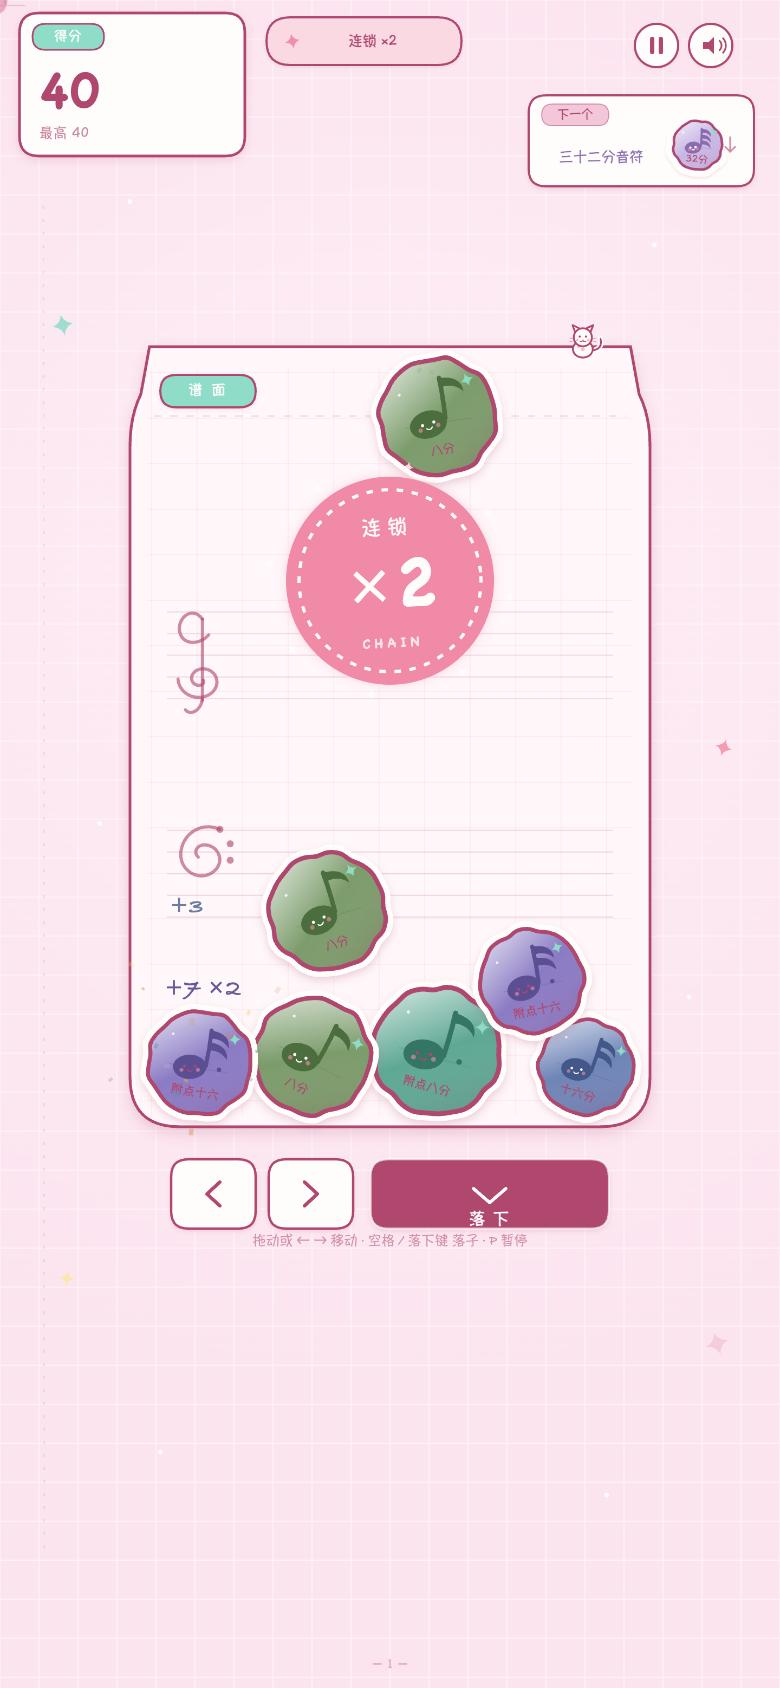
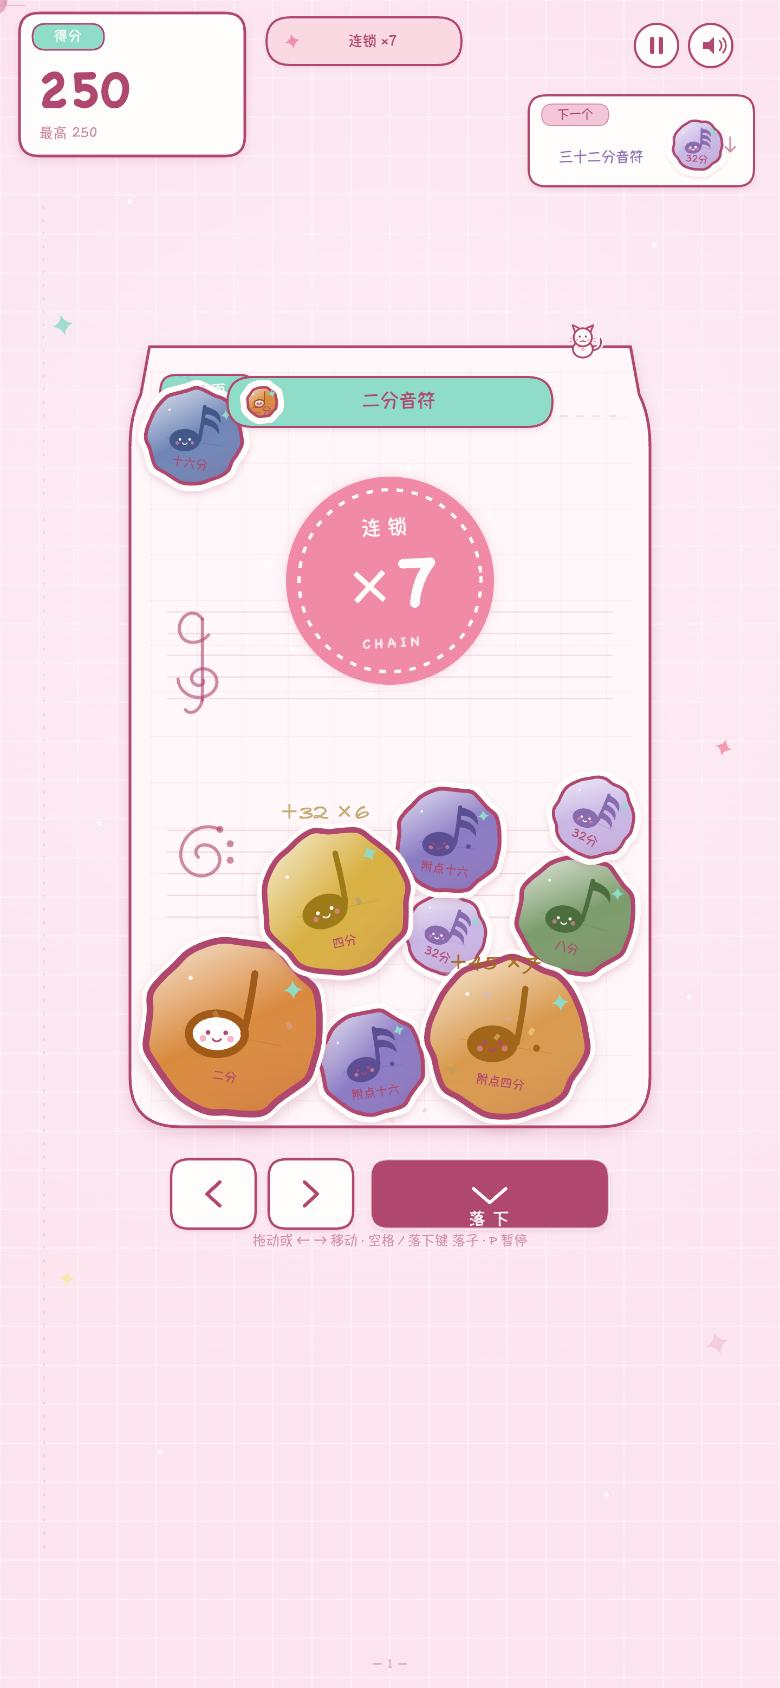
Publish 音符对对碰

diff --git a/staff-drop/index.html b/staff-drop/index.html
@@ -81,6 +81,9 @@
   ];
   var DROP_W = [0.25, 0.25, 0.25, 0.25];
   var MERGE_PTS = [0, 3, 6, 10, 15, 21, 28, 36, 45, 55];
+  // real-duration doubling: 32→16→8→4→2→whole; dotted 16→dotted 8→dotted 4→dotted 2.
+  // A dotted 2 doubled would be a dotted whole, which is outside this set, so two d2 stay put.
+  var MERGE_TO = [1, 3, 4, 5, 6, 7, 8, 9, -1, -1];
   var HANA_PTS = 66;
   var BEST_KEY = 'staffMerge.best.suika';
   function fullRankName(i) { var n = RANKS[i].durName; return n.slice(-2) === '音符' ? n : n + '音符'; }
@@ -528,7 +531,7 @@
           var rr2 = a.r + b.r;
           if (d2 >= rr2 * rr2 || d2 < 0.0001) continue;
           var d = Math.sqrt(d2);
-          if (it === 0 && a.rank === b.rank && a.age > 0.1 && b.age > 0.1 && d < rr2 + 0.6) {
+          if (it === 0 && a.rank === b.rank && a.age > 0.1 && b.age > 0.1 && d < rr2 + 0.6 && (a.rank === RANKS.length - 1 || MERGE_TO[a.rank] >= 0)) {
             a.dead = true; b.dead = true; mergeList.push([a, b]); continue;
           }
           var nx = dx / d, ny = dy / d, ov = rr2 - d;
@@ -566,6 +569,8 @@
   }
 
   function doMerge(a, b, pending) {
+    var target = MERGE_TO[a.rank];
+    if (a.rank < RANKS.length - 1 && target < 0) return;
     var mx = (a.x + b.x) / 2, my = (a.y + b.y) / 2;
     merges += 1;
     combo = (timeAnim - lastMerge < 1.15) ? combo + 1 : 1;
@@ -583,7 +588,7 @@
       floaters.push({ x: mx, y: my - 20, life: 1.6, text: '华彩 +' + hp, color: ACCENT, size: 26 });
       return;
     }
-    var nr = a.rank + 1;
+    var nr = target;
     var nrk = RANKS[nr];
     var nb = {
       x: mx, y: my, vx: (a.vx + b.vx) * 0.35, vy: (a.vy + b.vy) * 0.35 - 30,
@@ -1465,7 +1470,7 @@
     // rules
     var rules = [
       '音符从上方落下，左右移动，松手落下',
-      '两个相同音符相撞，合成更高时值',
+      '两个相同音符相撞，合成两倍时值',
       '全音符相撞放华彩，谱面堆满则曲终'
     ];
     var ry = ty + 400;
@@ -2761,7 +2766,7 @@
     g.strokeStyle = '#FFFDFB'; g.lineWidth = 3; g.stroke();
     text(g, '♪', 0, 1, 24, '#FFFDFB', { weight: '700' });
     g.restore();
-    text(g, '相同音符相撞，时值变长', W / 2, 330, 20, INK2, { weight: '500' });
+    text(g, '相同音符相撞，时值翻倍', W / 2, 330, 20, INK2, { weight: '500' });
     // demo card
     stickerCard(g, 110, 382, 500, 196, 22, '#FBF6FF');
     rr(g, 126, 398, 468, 164, 16);
@@ -2783,7 +2788,7 @@
     // rules
     var rules = [
       '音符从上方落下，左右移动，松手落下',
-      '两个相同音符相撞，合成更高时值',
+      '两个相同音符相撞，合成两倍时值',
       '全音符相撞放华彩，谱面堆满则曲终'
     ];
     var ry = 640;
